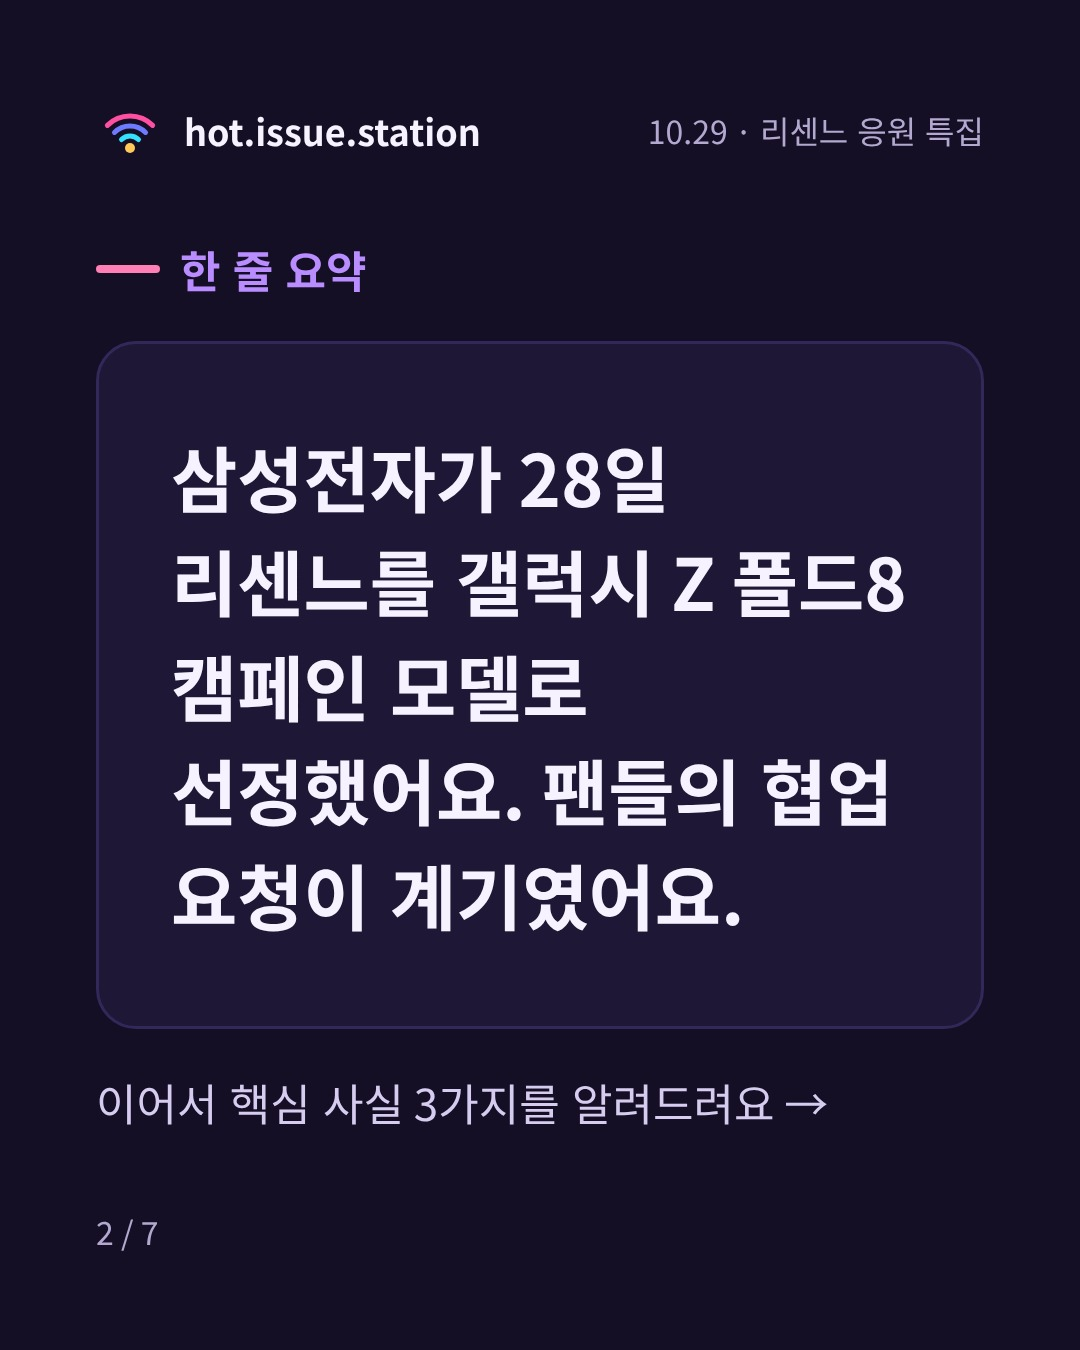
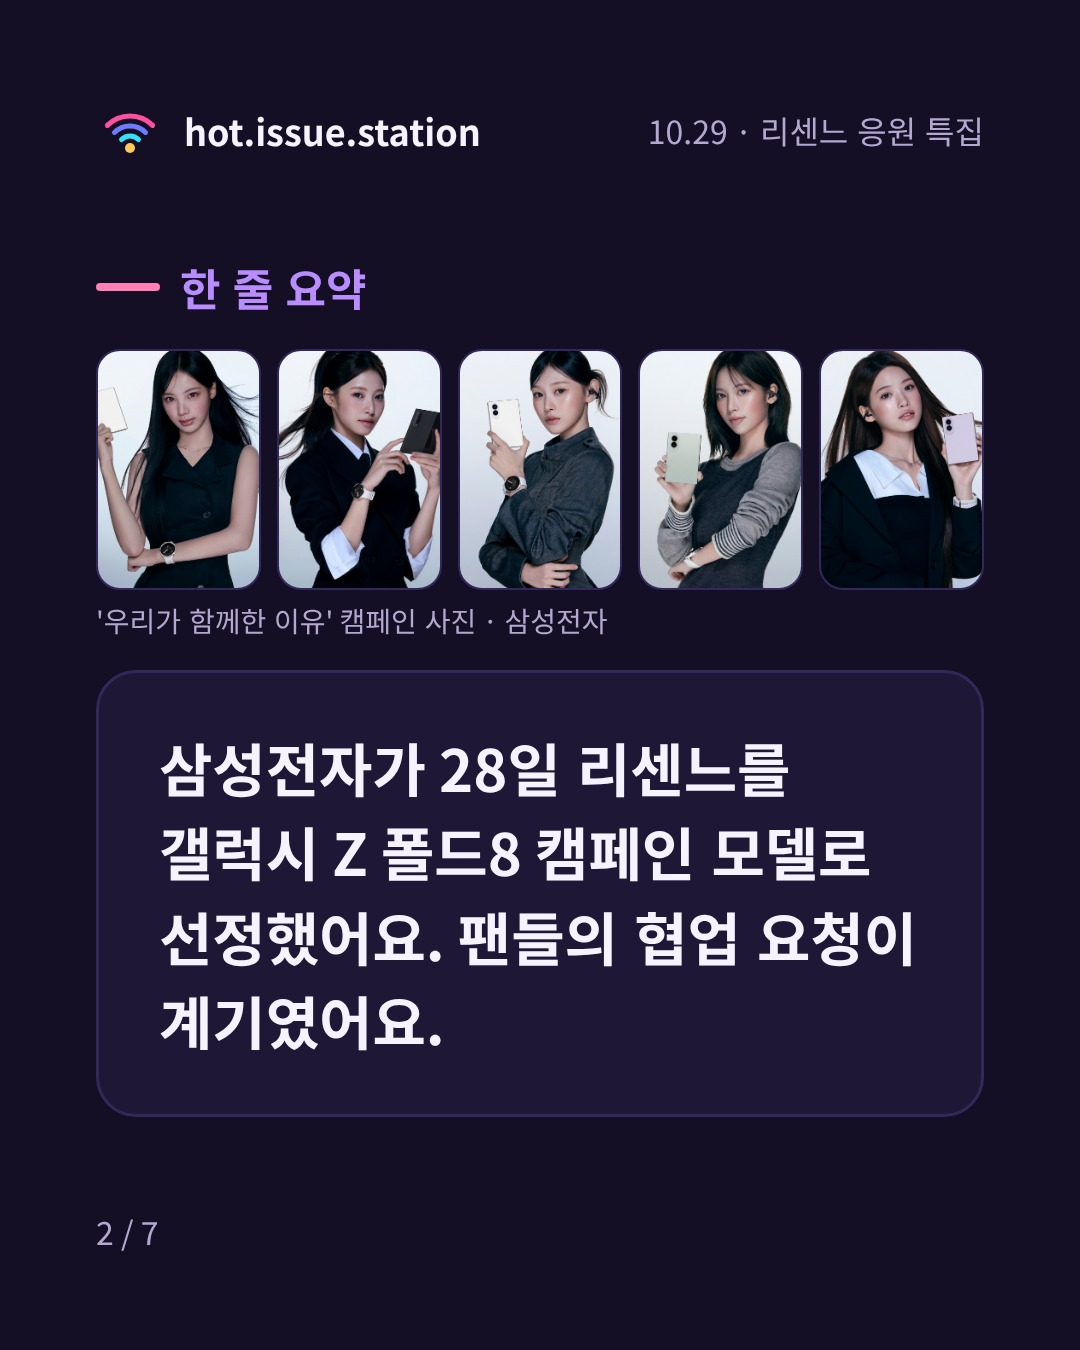
EX1 카드 완성: 2장 다섯 멤버 캠페인 사진 줄, 3~5장 사진 칸 (make_post: summaryPhotos·facts.photo 추가)
Claude-Session: https://claude.ai/code/session_017sdLagaiWb4rEASbYkm7nL

diff --git a/scripts/make_post.py b/scripts/make_post.py
@@ -251,13 +251,34 @@ def cards(r):
 <div style="display:flex;gap:12px"><div style="width:160px;height:16px;border-radius:8px;background:{CYAN}"></div><div style="width:48px;height:16px;border-radius:8px;background:{PINK}"></div></div>
 <div style="font-size:52px;font-weight:500;line-height:1.5;color:{SOFT};max-width:760px">{E(r['sub'])}</div></div>""",
                      label, 1, "밀어서 다음 장 →", deco=rings([VIOLET, PINK, CYAN], [900, 680, 460])))
-    # 2 요약
-    out.append(frame(f"""<div style="flex:1;display:flex;flex-direction:column;justify-content:center;gap:40px">
+    # 2 요약 — "summaryPhotos"(사진 경로 목록, 최대 5장)가 있으면 요약 위에 사진 줄을 놓는다
+    sp = r.get("summaryPhotos") or []
+    if sp:
+        n = len(sp[:5])
+        tw = (1080 - 192 - 16 * (n - 1)) // n
+        row = "".join(f'<div style="width:{tw}px;height:{int(tw * 1.45)}px;border-radius:24px;background:url({photo_uri(x)}) 50% 20%/cover no-repeat;border:2px solid {LINE}"></div>' for x in sp[:5])
+        tag = f'<div style="font-size:28px;color:{MUTED}">{E(r.get("summaryPhotosLabel", ""))}</div>' if r.get("summaryPhotosLabel") else ""
+        out.append(frame(f"""<div style="flex:1;display:flex;flex-direction:column;justify-content:center;gap:30px">
+<div style="display:flex;align-items:center;gap:20px"><div style="width:64px;height:8px;border-radius:4px;background:{PINK}"></div><div style="font-size:44px;font-weight:700;color:{CYAN}">한 줄 요약</div></div>
+<div style="display:flex;flex-direction:column;gap:10px"><div style="display:flex;gap:16px">{row}</div>{tag}</div>
+<div style="padding:52px 60px;border:3px solid {LINE};border-radius:40px;background:{BOX}"><div style="font-size:58px;font-weight:700;line-height:1.45">{E(r['summary'])}</div></div></div>""", label, 2))
+    else:
+        out.append(frame(f"""<div style="flex:1;display:flex;flex-direction:column;justify-content:center;gap:40px">
 <div style="display:flex;align-items:center;gap:20px"><div style="width:64px;height:8px;border-radius:4px;background:{PINK}"></div><div style="font-size:44px;font-weight:700;color:{CYAN}">한 줄 요약</div></div>
 <div style="padding:80px 72px;border:3px solid {LINE};border-radius:40px;background:{BOX}"><div style="font-size:72px;font-weight:700;line-height:1.45">{E(r['summary'])}</div></div>
 <div style="font-size:44px;line-height:1.5;color:{SOFT}">이어서 핵심 사실 3가지를 알려드려요 →</div></div>""", label, 2))
-    # 3~5 사실
+    # 3~5 사실 — 사실마다 "photo"(경로), "photoPos", "photoLabel"이 있으면 위쪽에 사진 칸을 놓는다
     for i, f in enumerate(r["facts"][:3]):
+        if f.get("photo"):
+            ftag = (f'<div style="position:absolute;right:16px;bottom:16px;padding:6px 14px;border-radius:999px;background:rgba({BGRGB},.75);color:{SOFT};font-size:24px">{E(f["photoLabel"])}</div>' if f.get("photoLabel") else "")
+            out.append(frame(f"""<div style="flex:1;display:flex;flex-direction:column;justify-content:center;gap:24px">
+<div style="position:relative;height:430px;border-radius:32px;overflow:hidden;background:url({photo_uri(f['photo'])}) {f.get('photoPos', '50% 25%')}/cover no-repeat">{ftag}</div>
+<div style="display:flex;align-items:baseline;gap:20px"><div style="font-size:96px;font-weight:900;line-height:1;color:{CYAN}">{i + 1:02d}</div><div style="font-size:36px;font-weight:700;color:{MUTED}">핵심 사실</div></div>
+<div style="font-size:58px;font-weight:900;line-height:1.3">{E(f['title'])}</div>
+<div style="font-size:42px;line-height:1.55;color:{BODY}">{E(f['desc'])}</div>
+<div style="font-size:32px;color:{MUTED}">출처 {E(f['source'])}</div></div>""",
+                             label, 3 + i, f'<div style="display:flex;gap:16px">{dots(i)}</div>'))
+            continue
         out.append(frame(f"""<div style="flex:1;display:flex;flex-direction:column;justify-content:center;gap:32px">
 <div style="display:flex;align-items:baseline;gap:24px"><div style="font-size:140px;font-weight:900;line-height:1;color:{CYAN}">{i + 1:02d}</div><div style="font-size:40px;font-weight:700;color:{MUTED}">핵심 사실</div></div>
 <div style="font-size:68px;font-weight:900;line-height:1.35">{E(f['title'])}</div>
